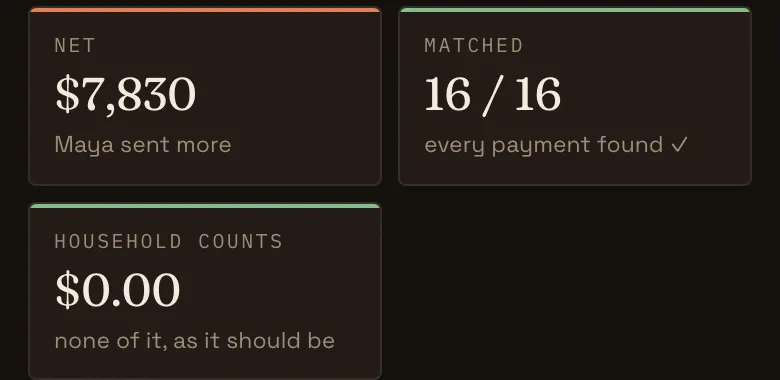
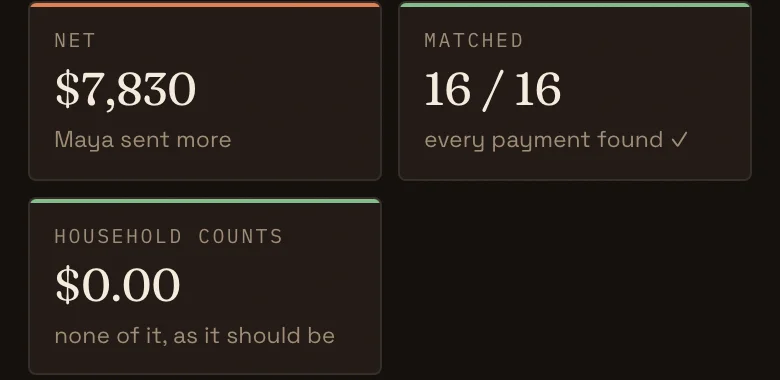
Fresh Bills and Between you shots

diff --git a/index.html b/index.html
@@ -154,7 +154,7 @@ footer{border-top:1px solid var(--line);padding:32px 0 48px;color:var(--mute);fo
   <div><p class="big">$2,711/yr</p><p class="tag">in 9 subscriptions, 7 of them ($1,223/yr) fund none of your priorities (demo household)</p>
   <h3>What recurs, and what is it for?</h3>
   <p>Bills are found in the ledger, not typed in. A new amount is flagged, and a bill that has not shown up yet says so before you assume it was cancelled.</p></div>
-  <div class="mshot"><img loading="lazy" width="900" height="716" src="media/bills-calendar.webp" alt="October on a calendar: recurring charges marked paid, due or not seen yet."></div>
+  <div class="mshot"><img loading="lazy" width="900" height="593" src="media/bills-calendar.webp" alt="October bills: the month's totals, 9 subscriptions at $2,711 a year, and every recurring charge on a calendar."></div>
  </div>
 
  <div class="row will w">
